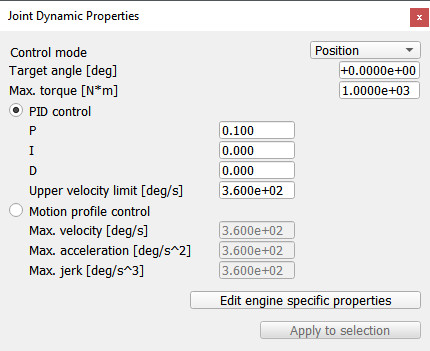
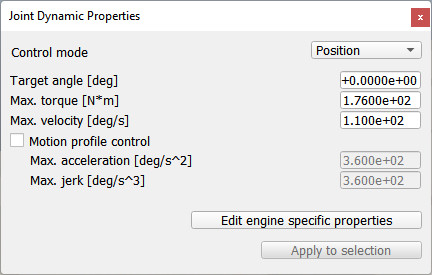
pos pid

diff --git a/en/jointCallbackFunctions.htm b/en/jointCallbackFunctions.htm
@@ -25,7 +25,7 @@
 <li>When the joint is in dynamic mode, is <a href="designingDynamicSimulations.htm#dynamicallyEnabled">dynamically enabled</a>, and is set to custom control: the physics engine will trigger the joint callback function for each dynamics simulation step, which is quite often, normally 10 times per simulation step for a given joint</li>
 
 <p> Joint callback functions enable the user to customize the control loop for specific joints in order to write low-level control algorithms.</p>
-<p>Following represents a simple PID joint callback function, for a joint in dynamic mode:<br>
+<p>Following represents a simple position control joint callback function, for a joint in dynamic mode:<br>
 </p>
 
 <code class="hljs language-lua coppelia-coppeliasim-script">
@@ -43,65 +43,32 @@ function <strong>sysCall_jointCallback</strong>(inData)
     -- inData.initVel : the desired initial velocity (if joint is kinematic and when sim.setJointTargetVelocity
     --                  was called with a 4th argument)
     -- inData.errorValue : targetPos-currentPos (with revolute cyclic joints, the shortest cyclic distance)
-    -- inData.maxVel : a maximum velocity, taken from sim.setJointTargetPosition or 
-    --                 sim.setJointTargetVelocity's 3rd argument)
-    -- inData.maxAccel : a maximum acceleration, taken from sim.setJointTargetPosition or
-    --                   sim.setJointTargetVelocity's 3rd argument)
-    -- inData.maxJerk : a maximum jerk, taken from sim.setJointTargetPosition or
-    --                  sim.setJointTargetVelocity's 3rd argument)
+    -- inData.maxVel : a maximum velocity
+    -- inData.maxAccel : a maximum acceleration
+    -- inData.maxJerk : a maximum jerk
     -- inData.first : whether this is the first call from the physics engine, since the joint
     --                was initialized (or re-initialized) in it.
     -- inData.passCnt : the current dynamics calculation pass. 1-10 by default
     -- inData.totalPasses : the number of dynamics calculation passes for each "regular" simulation pass.
     -- inData.effort : the last force or torque that acted on this joint along/around its axis. With Bullet,
     --                 torques from joint limits are not taken into account
-    -- inData.dynStepSize : the step size used for the dynamics calculations (by default 5ms)
+    -- inData.dt : the step size used for the dynamics calculations (by default 5ms)
     -- inData.force : the joint force/torque, as set via sim.setJointTargetForce
-    -- inData.velUpperLimit : the joint velocity upper limit
 
     if inData.mode==sim.jointmode_dynamic then
-        -- Simple PID control example:
-        
-        if inData.first then
-            PID_P=0.1
-            PID_I=0
-            PID_D=0
-            pidCumulativeErrorForIntegralParam=0
+        -- Simplest position controller example:
+        local ctrl=inData.errorValue*0.1
+        local maxVelocity=ctrl/inData.dt
+        if (maxVelocity&gt;inData.maxVel) then
+            maxVelocity=inData.maxVel
         end
-        
-        -- The control happens here:
-        -- 1. Proportional part:
-        local ctrl=inData.errorValue*PID_P
-        
-        -- 2. Integral part:
-        if PID_I~=0 then
-            pidCumulativeErrorForIntegralParam=pidCumulativeErrorForIntegralParam+inData.errorValue*inData.dynStepSize
-        else
-            pidCumulativeErrorForIntegralParam=0
+        if (maxVelocity&lt;-inData.maxVel) then
+            maxVelocity=-inData.maxVel
         end
-        ctrl=ctrl+pidCumulativeErrorForIntegralParam*PID_I
-        
-        -- 3. Derivative part:
-        if not inData.first then
-            ctrl=ctrl+(inData.errorValue-pidLastErrorForDerivativeParam)*PID_D/inData.dynStepSize
-        end
-        pidLastErrorForDerivativeParam=inData.errorValue
-        
-        -- 4. Calculate the velocity needed to reach the position in one dynamic time step:
-        local maxVelocity=ctrl/inData.dynStepSize -- max. velocity allowed.
-        if (maxVelocity&gt;inData.velUpperLimit) then
-            maxVelocity=inData.velUpperLimit
-        end
-        if (maxVelocity&lt;-inData.velUpperLimit) then
-            maxVelocity=-inData.velUpperLimit
-        end
-        local forceOrTorqueToApply=inData.maxForce -- the maximum force/torque that the joint will be able to exert
+        local forceOrTorqueToApply=inData.maxForce
     
-        -- 5. Following data must be returned to CoppeliaSim:
-        firstPass=false
-        local outData={}
-        outData.velocity=maxVelocity
-        outData.force=forceOrTorqueToApply
+        -- Following data must be returned to CoppeliaSim:
+        local outData={velocity=maxVelocity,force=forceOrTorqueToApply}
         return outData
     end
     

diff --git a/en/buildingAModelTutorial.htm b/en/buildingAModelTutorial.htm
@@ -230,9 +230,9 @@
 <br>
 
 
-<p>We now run the simulation: the robot will collapse, since the joints are not controlled by default. <a href="#joints">When we added the joints in the previous stage</a>, we created joints in dynamic mode, but their motor or controller was disabled (by default). We can now adjust our joints to our requirements. In our case, we want a simple PID controller for each one of them. In the joint dynamic properties, we click <strong>Motor enabled</strong> and adjust the <strong>maximum torque</strong>. We then click <strong>Control loop enabled</strong> and select <strong>Position control (PID)</strong>. We now run the simulation again: the robot should hold its position. Try to switch the current physics engine to see if the behaviour is consistent across all supported physics engines. You can do this via the appropriate <a href="userInterface.htm#toolbars">toolbar button</a>, or in the <a href="dynamicsDialog.htm">general dynamics properties</a>.</p>
+<p>We now run the simulation: the robot will collapse, since the joints are not controlled by default. <a href="#joints">When we added the joints in the previous stage</a>, we created joints in dynamic mode, but those are currently not controlled. We can now adjust our joints to our requirements and iIn our case, we want a simple position controller for each one of them. In the joint dynamic properties, we select <strong>Position</strong> as <strong>Control mode</strong>. We now run the simulation again: the robot should hold its position. Try to switch the current physics engine to see if the behaviour is consistent across all supported physics engines. You can do this via the appropriate <a href="userInterface.htm#toolbars">toolbar button</a>, or in the <a href="dynamicsDialog.htm">general dynamics properties</a>.</p>
 
-<p>During simulation, we now verify the scene dynamic content via the <a href="userInterface.htm#toolbars">Dynamic content visualization &amp; verification toolbar button</a>. Now, only items that are taken into account by the physics engine will be display, and the display is <a href="designingDynamicSimulations.htm#dynamicContentVisualization">color-coded</a>. It is <strong>very important</strong> to always do this, and specially when your dynamic model doesn't behave as expected, in order to quickly debug the model. Similarly, always look at the scene hierarchy during simulation: dynamically enabled objects should display a ball-bounding icon on the right-hand side of their alias.</p>
+<p>During simulation, we now verify the scene dynamic content via the <a href="userInterface.htm#toolbars">Dynamic content visualization &amp; verification toolbar button</a>. Now, only items that are taken into account by the physics engine will be display, and the display is <a href="designingDynamicSimulations.htm#dynamicContentVisualization">color-coded</a>. It is very important to always do this, and specially when your dynamic model doesn't behave as expected, in order to quickly debug the model. Similarly, always look at the scene hierarchy during simulation: dynamically enabled objects should display a ball-bounding icon on the right-hand side of their alias.</p>
 
 <p align=center><img src="images/modelTut22.jpg"></p>
 <p class=imageLabel>[Dynamic content visualization &amp; verification]</p>

diff --git a/en/xmlFormat.htm b/en/xmlFormat.htm
@@ -139,7 +139,7 @@
 
 <p>Here a revolute joint, in dynamic mode, position controlled:</p>
 <pre class=lightGreyBox>&lt;joint&gt;<br>  &lt;common&gt;<br>    ... <font color="green">(refer to generated files for details)</font><br>  &lt;/common&gt;<br>  &lt;type&gt;revolute&lt;/type&gt; <font color="green">(can be revolute, prismatic or spherical)</font><br>  &lt;mode&gt;dynamic&lt;/mode&gt; <font color="green">(can be kinematic, dependent or dynamic)</font><br>  &lt;minPosition&gt;-180.0&lt;/minPosition&gt;<br>  &lt;range&gt;360.0&lt;/range&gt;<br>  &lt;position&gt;0.0&lt;/position&gt;<br>  &lt;switches&gt;<br>    &lt;cyclic&gt;true&lt;/cyclic&gt;<br>  &lt;/switches&gt;
-  &lt;dynamics&gt;<br>    &lt;maxForce&gt;2.5&lt;/maxForce&gt;<br>    &lt;upperVelocityLimit&gt;180&lt;/upperVelocityLimit&gt;<br>    &lt;targetPosition&gt;0.0&lt;/targetPosition&gt;<br>    &lt;pidValues&gt;0.1 0.0 0.0&lt;/pidValues&gt;<br>    ... <font color="green">(refer to generated files for details)</font><br>    &lt;switches&gt;<br>      &lt;motorEnabled&gt;false&lt;/motorEnabled&gt;<br>      &lt;controlLoopEnabled&gt;true&lt;/controlLoopEnabled&gt;<br>      ... <font color="green">(refer to generated files for details)</font><br>    &lt;/switches&gt;<br>    &lt;engines&gt;<br>      ... <font color="green">(refer to generated files for details)</font><br>    &lt;/engines&gt;<br>  &lt;/dynamics&gt;<br>&lt;/joint&gt;</pre>
+  &lt;dynamics&gt;<br>    &lt;maxForce&gt;2.5&lt;/maxForce&gt;<br>    &lt;upperVelocityLimit&gt;180&lt;/upperVelocityLimit&gt;<br>    &lt;targetPosition&gt;0.0&lt;/targetPosition&gt;<br>    ... <font color="green">(refer to generated files for details)</font><br>    &lt;switches&gt;<br>      &lt;motorEnabled&gt;false&lt;/motorEnabled&gt;<br>      &lt;controlLoopEnabled&gt;true&lt;/controlLoopEnabled&gt;<br>      ... <font color="green">(refer to generated files for details)</font><br>    &lt;/switches&gt;<br>    &lt;engines&gt;<br>      ... <font color="green">(refer to generated files for details)</font><br>    &lt;/engines&gt;<br>  &lt;/dynamics&gt;<br>&lt;/joint&gt;</pre>
 
 
 <p>Other scene objects are not discussed here. For details, export a scene containing such object, then examine the generated file.</p>

diff --git a/en/jointDynamicsProperties.htm b/en/jointDynamicsProperties.htm
@@ -37,7 +37,7 @@
 
 <li><strong>Velocity control</strong>: the joint is controlled in velocity: the specified force/torque is applied until the desired velocity is reached. Optionally, a specific motion profile for the velocity can be applied. Can be modulated with <a href="regularApi/simSetJointTargetVelocity.htm">sim.setJointTargetVelocity</a> and <a href="regularApi/simSetJointTargetForce.htm">sim.setJointTargetForce</a></li>
 
-<li><strong>Position control</strong>: the joint is controlled in position: the specified force/torque is applied and the velocity is modulated via a PID controller, or via specific motion constraints, until the target position/angle is reached. Parameters can be adjusted with <a href="regularApi/simSetJointTargetPosition.htm">sim.setJointTargetPosition</a>, <a href="regularApi/simSetJointTargetForce.htm">sim.setJointTargetForce</a> and <a href="regularApi/simSetObjectFloatParam.htm">sim.setObjectFloatParam</a></li>
+<li><strong>Position control</strong>: the joint is controlled in position: the specified force/torque is applied and the velocity is modulated accordingly, until the target position/angle is reached. Parameters can be adjusted with <a href="regularApi/simSetJointTargetPosition.htm">sim.setJointTargetPosition</a>, <a href="regularApi/simSetJointTargetForce.htm">sim.setJointTargetForce</a> and <a href="regularApi/simSetObjectFloatParam.htm">sim.setObjectFloatParam</a></li>
 
 <li><strong>Spring-damper control</strong>: the joint is controlled in position by modulating the exerted force/torque via a simple KC controller, trying to reach the zero displacement position/angle. Parameters can be adjusted with <a href="regularApi/simSetJointTargetPosition.htm">sim.setJointTargetPosition</a>, <a href="regularApi/simSetJointTargetForce.htm">sim.setJointTargetForce</a> and <a href="regularApi/simSetObjectFloatParam.htm">sim.setObjectFloatParam</a></li>
 

diff --git a/en/regularApi/simSetJointTargetPosition.htm b/en/regularApi/simSetJointTargetPosition.htm
@@ -57,7 +57,7 @@ Lua<br>synopsis
 <td class=apiTableRightLParam>
 <div><strong>objectHandle</strong>: handle of the joint object</div>
 <div><strong>targetPosition</strong>: target position of the joint</div>
-<div><strong>motionParams</strong>: when in kinematic mode: the maximum allowed velocity, acceleration and jerk. When in dynamics mode, can be the upperVelocityLimit, P, I and D parameters (PID control), or the maximum allowed velocity, acceleration and jerk (motion profile control). Can be nil for default values. See also <a href="simGetObjectFloatParam.htm">sim.getObjectFloatParam</a> and <a href="../objectParameterIDs.htm#joints">sim.jointfloatparam_maxvel</a>, <a href="../objectParameterIDs.htm#joints">sim.jointfloatparam_maxvel</a> and <a href="../objectParameterIDs.htm#joints">sim.jointfloatparam_maxjerk</a></div>
+<div><strong>motionParams</strong>: when in kinematic mode: the maximum allowed velocity, acceleration and jerk. When in dynamics mode with position control and motion profile enabled, the maximum allowed velocity, acceleration and jerk. Can be nil for default values. See also <a href="simGetObjectFloatParam.htm">sim.getObjectFloatParam</a> and <a href="../objectParameterIDs.htm#joints">sim.jointfloatparam_maxvel</a>, <a href="../objectParameterIDs.htm#joints">sim.jointfloatparam_maxvel</a> and <a href="../objectParameterIDs.htm#joints">sim.jointfloatparam_maxjerk</a></div>
 </td> 
 </tr> 
 <tr class=apiTableTr> 

diff --git a/en/objectParameterIDs.htm b/en/objectParameterIDs.htm
@@ -90,9 +90,6 @@
 
 <h2><a name="joints" id="joints"></a>Joints</h2>
 <div class="constList">
-<div>sim.jointfloatparam_pid_p (2002)</div><div class=tab>float parameter : dynamic motor position control P parameter</div>
-<div>sim.jointfloatparam_pid_i (2003)</div><div class=tab>float parameter : dynamic motor position control I parameter</div>
-<div>sim.jointfloatparam_pid_d (2004)</div><div class=tab>float parameter : dynamic motor position control D parameter</div>
 <div>sim.jointfloatparam_intrinsic_x (2005)</div><div class=tab>float parameter (can only be read) : joint transformation, position X</div>
 <div>sim.jointfloatparam_intrinsic_y (2006)</div><div class=tab>float parameter (can only be read) : joint transformation, position Y</div>
 <div>sim.jointfloatparam_intrinsic_z (2007)</div><div class=tab>float parameter (can only be read) : joint transformation, position Z</div>
@@ -129,7 +126,7 @@
 <div>sim.jointintparam_dynvelctrltype</div>
 <div class=tab>int32 parameter: the dynamic velocity control type of the joint: 0=none, 1=motion profile</div>
 <div>sim.jointintparam_dynposctrltype</div>
-<div class=tab>int32 parameter: the dynamic position control type of the joint: 0=PID, 1=motion profile</div>
+<div class=tab>int32 parameter: the dynamic position control type of the joint: 0=built-in, 1=motion profile</div>
 
 <br>
 <div>More parameters you wish to adjust from the API? Ask us to add them for a future release!</div>

diff --git a/en/versionInfo.htm b/en/versionInfo.htm
@@ -550,7 +550,6 @@ Version history:
 </h2>
  
 <li>Fixed several bugs. Thanks to Matt Derry, Daniel Morberg, Andreas Kuhner,  Danilo Vasconcellos Vargas,  Spencer Krause,  Daniel Kuhner, Luigi Ferri,  Filip Jares,  Michaela Richter,  Matthias Schindler and Ulrich Schwesinger for noticing them or helping to resolve them.</li>
-<li>Fixed a bug of the PID joint controller: in older V-REP versions, the I and D parameters had to be wrongly scaled in order to obtain the correct behaviour. The controller was now fixed and parameters are automatically scaled to a correct value when loading older file versions. Custom joint callback controllers will have to be adjusted manually if they make use of the I or D parameters.</li>
 <li>The <a href="jointDynamicsProperties.htm">joint dynamics properties</a> have been reorganized in order to facilitate the creation of spring-damper systems, by allowing to directly specify the spring constant <em>K</em> and its damping coefficient <em>C</em>.</li> 
 <li>Matlab versions previous to 2008a might be supported via the files located <a href="http://coppeliarobotics.com/contributions/matlabOlderThan2008a.zip">here</a>, courtesy of Gerold Huber.</li>
 <li>The RosPlugin was catkinized, courtesy of Arne Hitzmann and Sergi Foix.</li>

diff --git a/en/meansOfCommunication.htm b/en/meansOfCommunication.htm
@@ -19,15 +19,11 @@
 
 <h1>Messaging/interfaces/connectivity</h1>
 
-<p>There are several ways messages or data can be exchanged/transmitted/received in and around CoppeliaSim.</p>
-<p> One can exchange data within CoppeliaSim, via:</p>
+<p>There are several ways messages or data can be exchanged/transmitted/received in and around CoppeliaSim, but also between CoppeliaSim and an external application, other computer, machine, etc.:</p>
+<p> One can exchange data via:</p>
 <li><a href="#signals">signals</a></li>
 <li><a href="#customDataBlocks">custom data blocks</a></li>
 <li><a href="#pluginFunctions">calling plugin functions</a></li>
-<li><a href="#simCallScriptFunction">calling script functions</a></li>
-<li><a href="#simBroadcastMsg">broadcasting a message</a></li>
-
-<p><a name="external"></a>Data can also be exchanged with an external application, other computer, machine, etc., via:</p>
 <li><a href="#simCallScriptFunction">calling script functions</a></li>
 <li><a href="#simBroadcastMsg">broadcasting a message</a></li>
 <li><a href="remoteApiOverview.htm">Remote API</a></li>

diff --git a/en/regularApi/simAddDrawingObjectItem.htm b/en/regularApi/simAddDrawingObjectItem.htm
@@ -57,7 +57,7 @@ Lua<br>synopsis
 <tr class=apiTableTr> 
 <td class=apiTableLeftLParam>Lua<br>parameters</td> 
 <td class=apiTableRightLParam>
-<div>Similar to the C-function counterpart. Additionally, <strong>objectHandle</strong> can be combined with sim.handleflag_setmultiple to clear and set several drawing items at once.</div>
+<div>Similar to the C-function counterpart. Additionally, <strong>objectHandle</strong> can be combined with sim.handleflag_setmultiple or sim.handleflag_addmultiple to set/add several drawing items at once.</div>
 <div></div>
 </td> 
 </tr> 

diff --git a/en/apiConstants.htm b/en/apiConstants.htm
@@ -467,6 +467,7 @@ See also the <a href="#scriptAttributes">script attributes</a>.
 <div class="sim.handleflag_wxyzquat">sim.handleflag_wxyzquat</div>
 <div class="sim.handleflag_reljointbaseframe">sim.handleflag_reljointbaseframe</div>
 <div class="sim.handleflag_setmultiple">sim.handleflag_setmultiple</div>
+<div class="sim.handleflag_addmultiple">sim.handleflag_addmultiple</div>
 </div>
 </div>
 <br>
